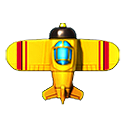
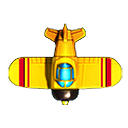
add kill emeny

diff --git a/practices/cpp/level1/p11_Fighters/main.cpp b/practices/cpp/level1/p11_Fighters/main.cpp
@@ -56,7 +56,6 @@ int main()
     t_enemy.loadFromFile("assets/enemy.png");
     enemy.setTexture(t_enemy);
     enemy.setScale(0.5,0.5);
-    enemy.setRotation(180);
 
     //load bgm
     sf::Music bgm;
@@ -181,6 +180,33 @@ void update()
         {
             sf::Vector2f movement(0,0.1f);
             *(it)+=movement;
+            it++;
+        }
+    }
+    //kill enemy
+    for(std::vector<sf::Vector2f>::iterator it=herofirevector.begin();it!=herofirevector.end();)
+    {
+        bool killed=0;
+        sf::Vector2f fireett=*(it);
+        for(std::vector<sf::Vector2f>::iterator itt=enemyvector.begin();itt!=enemyvector.end();)
+        {
+            sf::Vector2f enemyett=*(itt);
+            if(fireett.x+FIRE_L/2>enemyett.x&&fireett.x+FIRE_L/2<enemyett.x+PLANE_L
+            &&fireett.y+FIRE_L/2>enemyett.y&&fireett.y+FIRE_L/2<enemyett.y+PLANE_L)
+            {
+                cout<<"Hitted"<<"#"<<fireett.x+FIRE_L/2<<","<<fireett.y+FIRE_L/2<<"--#("<<enemyett.x<<","<<enemyett.y<<"),("<<enemyett.x+PLANE_L<<","<<enemyett.y+PLANE_L<<")"<<endl;
+                it=herofirevector.erase(it);
+                itt=enemyvector.erase(itt);
+                killed=1;
+                break;
+            }
+            else
+            {
+                itt++;
+            }
+        }
+        if(killed==0)
+        {
             it++;
         }
     }

diff --git a/practices/cpp/level1/p11_Fighters/TodoList.md b/practices/cpp/level1/p11_Fighters/TodoList.md
@@ -9,7 +9,7 @@
 7    | 炮弹飞出边界处理                | 2          |     5     |      y   |
 8    | 随机产生敌机，并向下运动          | 10        |     5     |      y    |
 9    | 敌机飞出边界处理                | 2         |      1    |      y     |
-10   | 碰撞处理（敌机与炮弹碰撞）        | 10         |           |           |
+10   | 碰撞处理（敌机与炮弹碰撞）        | 10         |     10     |     y     |
 11   | 显示敌机爆炸过程                | 10         |           |            |
 12   | 爆炸声音                       | 2         |           |            |
 13   | 计分及显示                     | 5         |           |            |
